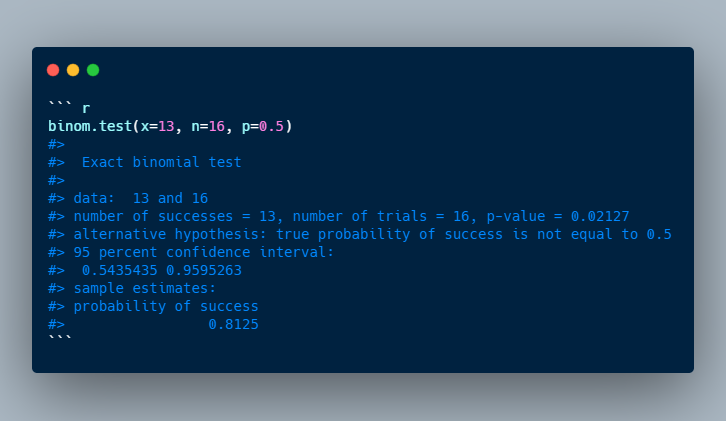
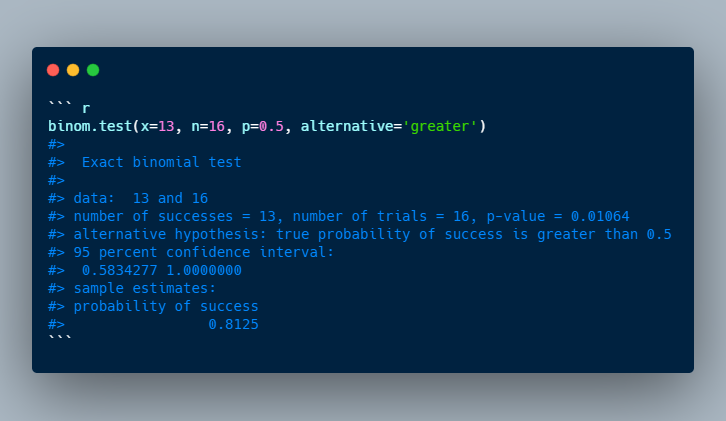
ques for 24 sept

Changed region(s): [[0.7273, 0.4941, 0.8788, 0.5867], [0.3939, 0.2779, 0.6667, 0.3088], [0.1515, 0.6176, 0.3333, 0.6793]]

diff --git a/README.md b/README.md
@@ -11,55 +11,56 @@ Although this repository contains questions, the purpose of it is to act as a te
 
 |S.No|Date|Topic|Link|
 |:---:|:---:|:---:|:---:|
-|1|23 September 2020|Data Science,  Probability and Statistics,  Uniform Distribution|[Link](./questions/q_23092020.md)|
-|2|22 September 2020|Programming,  R,  Variable Scoping|[Link](./questions/q_22092020.md)|
-|3|21 September 2020|Programming,  R,  Environments|[Link](./questions/q_21092020.md)|
-|4|20 September 2020|Data Science,  Probability and Statistics,  Bootstrap|[Link](./questions/q_20092020.md)|
-|5|19 September 2020|Programming,  R,  Super Assignment Operator|[Link](./questions/q_19092020.md)|
-|6|18 September 2020|Data Science,  Probability and Statistics,  Binomial Distribution|[Link](./questions/q_18092020.md)|
-|7|17 September 2020|Data Science,  Probability and Statistics,  Binomial Distribution|[Link](./questions/q_17092020.md)|
-|8|16 September 2020|Data Science,  Probability and Statistics,  Binomial Distribution|[Link](./questions/q_16092020.md)|
-|9|15 September 2020|Data Science,  Probability and Statistics,  Chi-squared Distribution|[Link](./questions/q_15092020.md)|
-|10|14 September 2020|Data Science,  Probability and Statistics,  Binomial Test|[Link](./questions/q_14092020.md)|
-|11|13 September 2020|Data Science,  Probability and Statistics,  Binomial Distribution|[Link](./questions/q_13092020.md)|
-|12|12 September 2020|Programming,  R,  `seq_along()`|[Link](./questions/q_12092020.md)|
-|13|11 September 2020|Programming,  R,  List|[Link](./questions/q_11092020.md)|
-|14|10 September 2020|Data Science,  Probability and Statistics,  Normal Q-Q plot|[Link](./questions/q_10092020.md)|
-|15|09 September 2020|Programming,  R,  S3 Class|[Link](./questions/q_09092020.md)|
-|16|08 September 2020|Programming,  R,  Indexing|[Link](./questions/q_08092020.md)|
-|17|07 September 2020|Programming,  R,  Indexing|[Link](./questions/q_07092020.md)|
-|18|06 September 2020|Data Science,  Probability and Statistics,  Type 1 error and Type 2 error|[Link](./questions/q_06092020.md)|
-|19|05 September 2020|Data Science,  Probability and Statistics,  Type 1 error and Type 2 error|[Link](./questions/q_05092020.md)|
-|20|04 September 2020|Data Science,  Probability and Statistics,  Type 1 error and Type 2 error|[Link](./questions/q_04092020.md)|
-|21|03 September 2020|Programming,  R,  Indexing|[Link](./questions/q_03092020.md)|
-|22|02 September 2020|Data Science,  Probability and Statistics,  Type 1 error and Type 2 error|[Link](./questions/q_02092020.md)|
-|23|01 September 2020|Data Science,  Probability and Statistics,  Type I error and Type II error|[Link](./questions/q_01092020.md)|
-|24|31 August 2020|Programming,  R,  Indexing|[Link](./questions/q_31082020.md)|
-|25|30 August 2020|Data Science,  Statstics,  Type 1 and Type 2 Error|[Link](./questions/q_30082020.md)|
-|26|29 August 2020|Data Science,  Classification|[Link](./questions/q_29082020.md)|
-|27|28 August 2020|R programming,  `[` operator|[Link](./questions/q_28082020.md)|
-|28|27 August 2020|R programming,  `:` operator|[Link](./questions/q_27082020.md)|
-|29|26 August 2020|ANOVA,  One way ANOVA,  Two way ANOVA|[Link](./questions/q_26082020.md)|
-|30|25 August 2020|R Programming,  Operator precedence|[Link](./questions/q_25082020.md)|
-|31|24 August 2020|F Distribution|[Link](./questions/q_24082020.md)|
-|32|23 August 2020|ANOVA,  Hypothesis Testing|[Link](./questions/q_23082020.md)|
-|33|22 August 2020|ANOVA, 	|[Link](./questions/q_22082020.md)|
-|34|21 August 2020|Normal Distribution|[Link](./questions/q_21082020.md)|
-|35|20 August 2020|One-way ANOVA|[Link](./questions/q_20082020.md)|
-|36|19 August 2020|R Programming,  `...` operator|[Link](./questions/q_19082020.md)|
-|37|18 August 2020|Probability,  Normal Distributions, 	|[Link](./questions/q_18082020.md)|
-|38|17 August 2020|R programming,  `all.equal()` Function|[Link](./questions/q_17082020.md)|
-|39|16 August 2020|Linear Regression|[Link](./questions/q_16082020.md)|
-|40|15 August 2020|R programming|[Link](./questions/q_15082020.md)|
-|41|14 August 2020|Spearman coefficient|[Link](./questions/q_14082020.md)|
-|42|13 August 2020|R programming,  Logical vectors|[Link](./questions/q_13082020.md)|
-|43|12 August 2020|F-Statistic test|[Link](./questions/q_12082020.md)|
-|44|11 August 2020|Pearson correlation coefficient|[Link](./questions/q_11082020.md)|
-|45|10 August 2020|Pearson Correlation Coefficient,  R square|[Link](./questions/q_10082020.md)|
-|46|09 August 2020|Ordinary Least Squares Fitting|[Link](./questions/q_09082020.md)|
-|47|08 August 2020|R square and Adjusted R square|[Link](./questions/q_08082020.md)|
-|48|07 August 2020|Linear Regression in R|[Link](./questions/q_07082020.md)|
-|49|06 August 2020|Linear Regression|[Link](./questions/q_06082020.md)|
-|50|05 August 2020|Linear Regression,  R,  Interaction Effect|[Link](./questions/q_05082020.md)|
-|51|03 August 2020|Object Types: R|[Link](./questions/q_03082020.md)|
-|52|31 July 2020|Welch's t-test|[Link](./questions/q_31072020.md)|
+|1|24 September 2020|Programming,  R,  Subsetting|[Link](./questions/q_24092020.md)|
+|2|23 September 2020|Data Science,  Probability and Statistics,  Uniform Distribution|[Link](./questions/q_23092020.md)|
+|3|22 September 2020|Programming,  R,  Variable Scoping|[Link](./questions/q_22092020.md)|
+|4|21 September 2020|Programming,  R,  Environments|[Link](./questions/q_21092020.md)|
+|5|20 September 2020|Data Science,  Probability and Statistics,  Bootstrap|[Link](./questions/q_20092020.md)|
+|6|19 September 2020|Programming,  R,  Super Assignment Operator|[Link](./questions/q_19092020.md)|
+|7|18 September 2020|Data Science,  Probability and Statistics,  Binomial Distribution|[Link](./questions/q_18092020.md)|
+|8|17 September 2020|Data Science,  Probability and Statistics,  Binomial Distribution|[Link](./questions/q_17092020.md)|
+|9|16 September 2020|Data Science,  Probability and Statistics,  Binomial Distribution|[Link](./questions/q_16092020.md)|
+|10|15 September 2020|Data Science,  Probability and Statistics,  Chi-squared Distribution|[Link](./questions/q_15092020.md)|
+|11|14 September 2020|Data Science,  Probability and Statistics,  Binomial Test|[Link](./questions/q_14092020.md)|
+|12|13 September 2020|Data Science,  Probability and Statistics,  Binomial Distribution|[Link](./questions/q_13092020.md)|
+|13|12 September 2020|Programming,  R,  `seq_along()`|[Link](./questions/q_12092020.md)|
+|14|11 September 2020|Programming,  R,  List|[Link](./questions/q_11092020.md)|
+|15|10 September 2020|Data Science,  Probability and Statistics,  Normal Q-Q plot|[Link](./questions/q_10092020.md)|
+|16|09 September 2020|Programming,  R,  S3 Class|[Link](./questions/q_09092020.md)|
+|17|08 September 2020|Programming,  R,  Indexing|[Link](./questions/q_08092020.md)|
+|18|07 September 2020|Programming,  R,  Indexing|[Link](./questions/q_07092020.md)|
+|19|06 September 2020|Data Science,  Probability and Statistics,  Type 1 error and Type 2 error|[Link](./questions/q_06092020.md)|
+|20|05 September 2020|Data Science,  Probability and Statistics,  Type 1 error and Type 2 error|[Link](./questions/q_05092020.md)|
+|21|04 September 2020|Data Science,  Probability and Statistics,  Type 1 error and Type 2 error|[Link](./questions/q_04092020.md)|
+|22|03 September 2020|Programming,  R,  Indexing|[Link](./questions/q_03092020.md)|
+|23|02 September 2020|Data Science,  Probability and Statistics,  Type 1 error and Type 2 error|[Link](./questions/q_02092020.md)|
+|24|01 September 2020|Data Science,  Probability and Statistics,  Type I error and Type II error|[Link](./questions/q_01092020.md)|
+|25|31 August 2020|Programming,  R,  Indexing|[Link](./questions/q_31082020.md)|
+|26|30 August 2020|Data Science,  Statstics,  Type 1 and Type 2 Error|[Link](./questions/q_30082020.md)|
+|27|29 August 2020|Data Science,  Classification|[Link](./questions/q_29082020.md)|
+|28|28 August 2020|R programming,  `[` operator|[Link](./questions/q_28082020.md)|
+|29|27 August 2020|R programming,  `:` operator|[Link](./questions/q_27082020.md)|
+|30|26 August 2020|ANOVA,  One way ANOVA,  Two way ANOVA|[Link](./questions/q_26082020.md)|
+|31|25 August 2020|R Programming,  Operator precedence|[Link](./questions/q_25082020.md)|
+|32|24 August 2020|F Distribution|[Link](./questions/q_24082020.md)|
+|33|23 August 2020|ANOVA,  Hypothesis Testing|[Link](./questions/q_23082020.md)|
+|34|22 August 2020|ANOVA, 	|[Link](./questions/q_22082020.md)|
+|35|21 August 2020|Normal Distribution|[Link](./questions/q_21082020.md)|
+|36|20 August 2020|One-way ANOVA|[Link](./questions/q_20082020.md)|
+|37|19 August 2020|R Programming,  `...` operator|[Link](./questions/q_19082020.md)|
+|38|18 August 2020|Probability,  Normal Distributions, 	|[Link](./questions/q_18082020.md)|
+|39|17 August 2020|R programming,  `all.equal()` Function|[Link](./questions/q_17082020.md)|
+|40|16 August 2020|Linear Regression|[Link](./questions/q_16082020.md)|
+|41|15 August 2020|R programming|[Link](./questions/q_15082020.md)|
+|42|14 August 2020|Spearman coefficient|[Link](./questions/q_14082020.md)|
+|43|13 August 2020|R programming,  Logical vectors|[Link](./questions/q_13082020.md)|
+|44|12 August 2020|F-Statistic test|[Link](./questions/q_12082020.md)|
+|45|11 August 2020|Pearson correlation coefficient|[Link](./questions/q_11082020.md)|
+|46|10 August 2020|Pearson Correlation Coefficient,  R square|[Link](./questions/q_10082020.md)|
+|47|09 August 2020|Ordinary Least Squares Fitting|[Link](./questions/q_09082020.md)|
+|48|08 August 2020|R square and Adjusted R square|[Link](./questions/q_08082020.md)|
+|49|07 August 2020|Linear Regression in R|[Link](./questions/q_07082020.md)|
+|50|06 August 2020|Linear Regression|[Link](./questions/q_06082020.md)|
+|51|05 August 2020|Linear Regression,  R,  Interaction Effect|[Link](./questions/q_05082020.md)|
+|52|03 August 2020|Object Types: R|[Link](./questions/q_03082020.md)|
+|53|31 July 2020|Welch's t-test|[Link](./questions/q_31072020.md)|

diff --git a/questions/q_16092020.md b/questions/q_16092020.md
@@ -1,7 +1,7 @@
 # Date: 16 September 2020
 
 ## Question:
-James bond has been called to judge a martini contest, and has been asked to tell whether a martini is stirred or shaken. Out of 16 trials, Mr. Bond was able to tell correctly 13 times. Being the nemesis of Mr. Bond, you thought to sabotage his career of martini judge and hastily concluded that he is just guessing. Do you have enough evidence to support your conclusion? (Assume significance level = 0.05)
+James Bond is captured by his enemies. To escape, Mr. Bond has to prove, that he is really good at telling if a martini is stirred or shaken, so he was given a test. Out of 16 trials, he was correct 13 times. Do you have enough evidence that Mr. Bond is just guessing and keep him captive? (Assume significance level = 0.05)
  
 ## Topic:
 1. Data Science
@@ -16,22 +16,23 @@ James bond has been called to judge a martini contest, and has been asked to tel
 1. Yes
 
 ## Explanation:
-Using binomial test in R and assuming our null hypothesis to be, that Mr. Bond is just guessing, i.e. probability ($p$) of selecting shaken (or stirred) martini is equal to 0.5 and our alternate hypothesis be $p \neq 0.5$.
+Using binomial test in R and assuming our null hypothesis to be, that Mr. Bond is just guessing, i.e. probability ($p$) of selecting shaken (or stirred) martini is equal to 0.5 and our alternate hypothesis be that he is good at judging $p > 0.5$.
+
 ``` r
-binom.test(x=13, n=16, p=0.5)
+binom.test(x=13, n=16, p=0.5, alternative='greater')
 #> 
 #>  Exact binomial test
 #> 
 #> data:  13 and 16
-#> number of successes = 13, number of trials = 16, p-value = 0.02127
-#> alternative hypothesis: true probability of success is not equal to 0.5
+#> number of successes = 13, number of trials = 16, p-value = 0.01064
+#> alternative hypothesis: true probability of success is greater than 0.5
 #> 95 percent confidence interval:
-#>  0.5435435 0.9595263
+#>  0.5834277 1.0000000
 #> sample estimates:
 #> probability of success 
 #>                 0.8125
 ```
-As the p-value is less than significance level $(0.02127 < 0.05)$, we have enough evidence to reject the null hypothesis i.e. $p=0.5$ and accept the alternate hypothesis that Mr. Bond is not guessing.
+As the p-value is less than significance level $(0.01064 < 0.05)$, we have enough evidence to reject the null hypothesis i.e. $p=0.5$ and accept the alternate hypothesis that Mr. Bond is not guessing.
 
 ## Scripts:
 1. Question Script: NULL

diff --git a/questions/q_24092020.md b/questions/q_24092020.md
@@ -1,0 +1,37 @@
+# Date: 24 September 2020
+
+## Question:
+Assume x is matrix with n rows and m columns, what happens when you try the following in R?
+```
+x[] <- 0
+```
+
+## Topic:
+1. Programming
+2. R
+3. Subsetting
+
+## Options:
+1. We will get an error
+2. Matrix x will be replaced with new variable x whose value is 0
+3. All elements of x gets replaced by 0, keeping the same number of rows and columns
+4. None of the above
+
+## Correct Option:
+3. All elements of x gets replaced by 0, keeping the same number of rows and columns
+
+## Explanation:
+If x is a matrix, `x[] <- 0` will replace every element with 0, keeping the same number of rows and columns. In contrast, `x <- 0` completely replaces the matrix with the value 0.
+
+## Scripts:
+1. Question Script: NULL
+2. Answer Script: NULL
+
+## Link:
+1. Question Link: NULL
+2. Answer Link:
+   1. "https://adv-r.hadley.nz/subsetting.html#exercises-11"
+
+## Images:
+1. Question Images: NULL
+2. Answer Images: NULL
